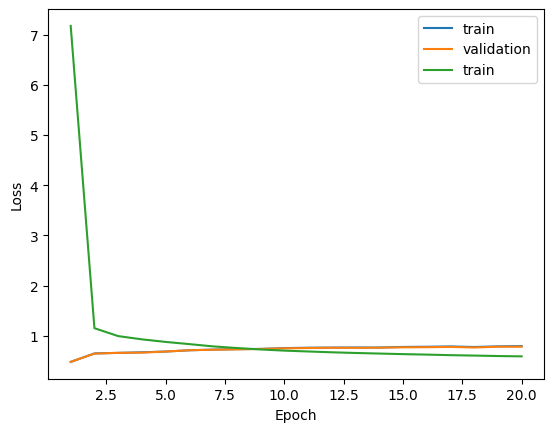
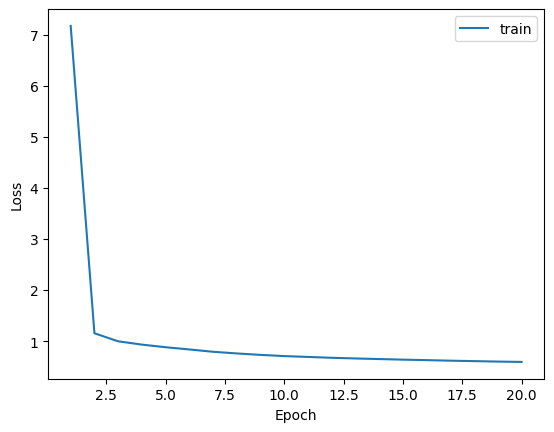
fix: Q1 plots

diff --git a/hw1/hw1-q1.py b/hw1/hw1-q1.py
@@ -195,6 +195,7 @@ class MLP(object):
 
 
 def plot(epochs, train_accs, val_accs):
+    plt.clf()
     plt.xlabel('Epoch')
     plt.ylabel('Accuracy')
     plt.plot(epochs, train_accs, label='train')
@@ -203,6 +204,7 @@ def plot(epochs, train_accs, val_accs):
     plt.savefig(f"{IMAGE_PATH}/{IMAGE_NAME}_accuracy.png", bbox_inches = 'tight')
 
 def plot_loss(epochs, loss):
+    plt.clf()
     plt.xlabel('Epoch')
     plt.ylabel('Loss')
     plt.plot(epochs, loss, label='train')

diff --git a/README.md b/README.md
@@ -6,7 +6,7 @@ python3 hw1-q1.py [model_name] -[flags]
 
 <b>example:</b>
 Q1.1(b)
-python3 hw1-q1.py logistic_regression -epochs 50 -learning_rate 0.01 -image_path "images" -image_name "logistic_regression_0_01" > outputs/logistic_regression.out
+python3 hw1-q1.py logistic_regression -epochs 20 -learning_rate 0.01 -image_path "images" -image_name "logistic_regression_0_01" > outputs/logistic_regression.out
 
 <b>Q2.1</b>
 python3 hw1-q2.py logistic_regression -epochs 20 -batch_size 16 -learning_rate 0.1 -image_path "images" -image_name "Q2_logistic_regression_0_1"
